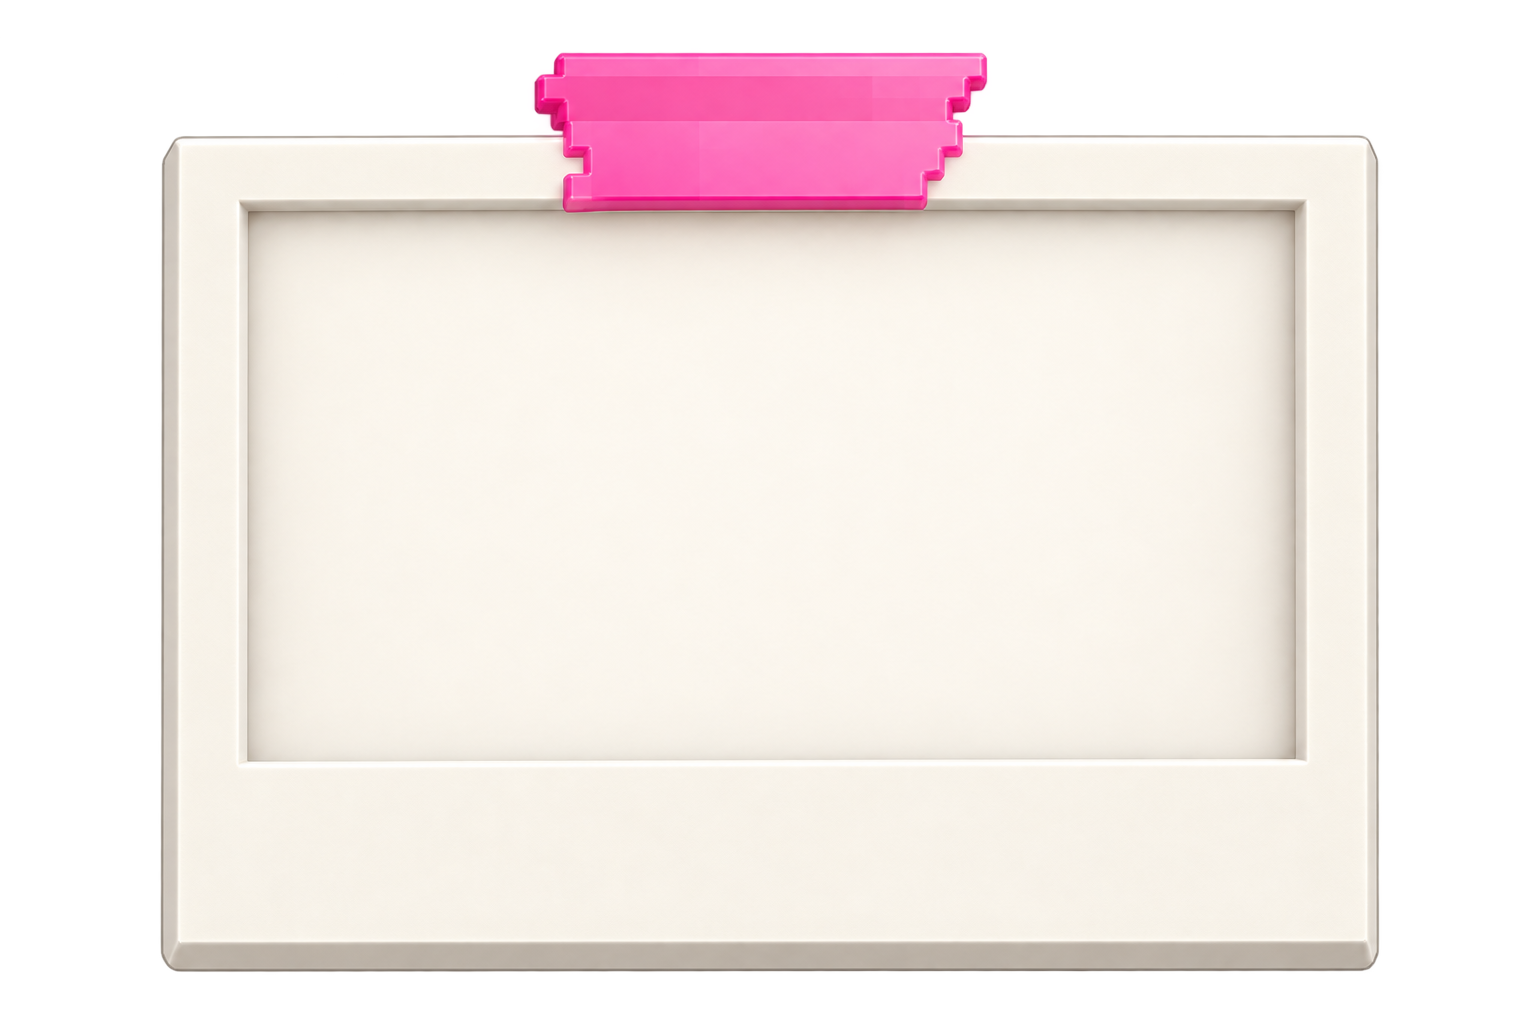
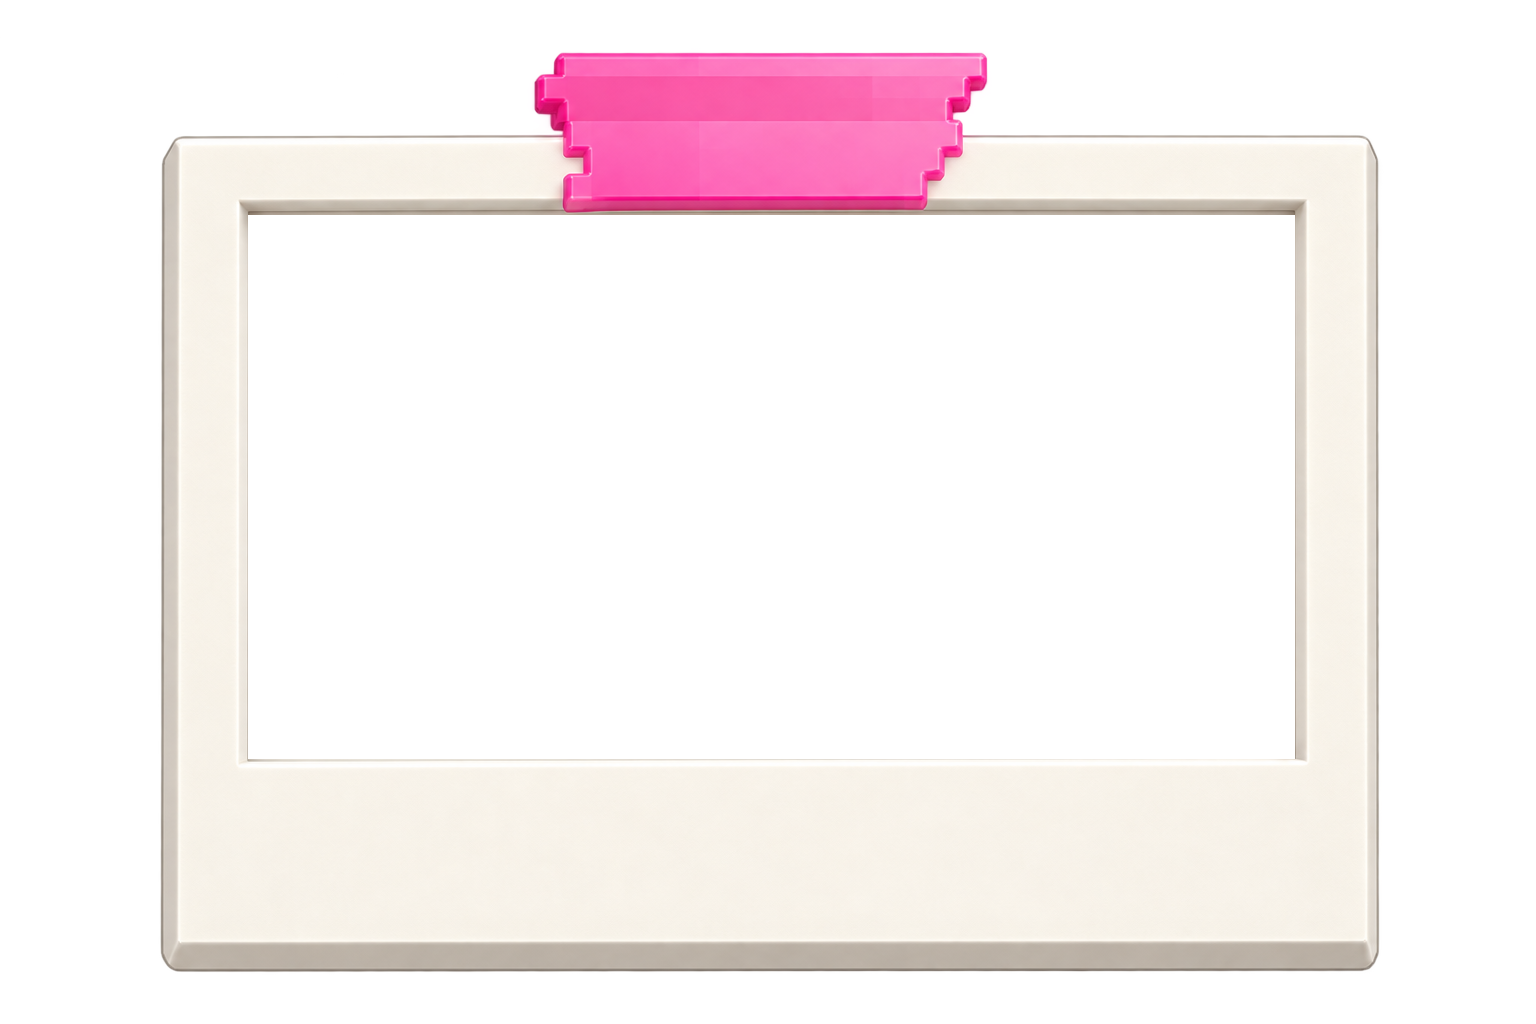
style(landing): transformar seccion explora-modulos a fichas de archivo con polaroids libres

Changed region(s): [[0.1562, 0.1875, 0.8438, 0.75]]

diff --git a/apps/web/src/features/landing/CivicTimelineAndExploreSection.tsx b/apps/web/src/features/landing/CivicTimelineAndExploreSection.tsx
@@ -2,11 +2,10 @@
 
 import React, { useState, useEffect } from 'react';
 import Link from 'next/link';
+import Image from 'next/image';
 import {
   ArrowRight,
   Bell,
-  BarChart3,
-  Gamepad2,
   Check,
   ChevronDown,
   ChevronUp,
@@ -546,110 +545,246 @@ export function CivicTimelineAndExploreSection({
             </p>
           </div>
 
-          {/* Grid de 2 Tarjetas Editoriales */}
-          <div className="grid grid-cols-1 md:grid-cols-2 gap-7 lg:gap-8">
-            {/* Tarjeta A: Dashboard interactivo guiado por preguntas */}
+          {/* Grid de 2 Expedientes Editoriales con Polaroids Voxel Libres (Sin card de fondo) */}
+          <div className="grid grid-cols-1 md:grid-cols-2 gap-10 lg:gap-14 items-start">
+            {/* Expediente A: Dashboard interactivo guiado por preguntas */}
             <Link
               href="/datos"
-              className="group flex flex-col justify-between p-8 sm:p-9 rounded-[4px] bg-[#FDFCFA] border border-[#E5DFD7] shadow-[-8px_14px_28px_-6px_rgba(18,24,38,0.08)] hover:shadow-[-12px_20px_36px_-6px_rgba(18,24,38,0.14)] hover:border-[#D0C7BC] transition-all duration-300 relative overflow-hidden"
+              className="group flex flex-col justify-between focus:outline-none"
             >
-              <div className="absolute top-0 left-0 right-0 h-1.5 bg-gradient-to-r from-blue-600 via-indigo-600 to-violet-600 opacity-90" />
-
               <div>
-                <div className="flex items-center justify-between gap-3 mb-6">
-                  <div className="w-12 h-12 rounded-[3px] bg-blue-50 border border-blue-200/60 text-blue-600 flex items-center justify-center transition-transform group-hover:scale-105">
-                    <BarChart3 className="w-6 h-6" />
+                {/* Escenario Polaroid Voxel Flotante (Directo sobre el papel satinado) */}
+                <div className="relative w-full aspect-[1536/1024] select-none transition-transform duration-500 ease-out group-hover:scale-[1.018] md:group-hover:-rotate-[0.8deg]">
+                  {/* Sombra de contacto suave sobre el papel */}
+                  <div
+                    aria-hidden
+                    className="absolute left-[12%] right-[12%] bottom-[6%] h-[12%] rounded-[50%] bg-[#0F1B2D]/12 blur-md"
+                  />
+
+                  {/* Fotografía interior (card-dashboard.jpeg) encajada en las coordenadas calibradas */}
+                  <div
+                    className="absolute overflow-hidden rounded-[2px]"
+                    style={{
+                      left: '16.08%',
+                      right: '15.69%',
+                      top: '20.90%',
+                      bottom: '25.88%',
+                    }}
+                  >
+                    <Image
+                      src="/card-dashboard.jpeg"
+                      alt="Ilustración pixel art del explorador de datos CCPC del INE"
+                      fill
+                      sizes="(min-width: 1024px) 45vw, 92vw"
+                      className="object-cover transition-transform duration-700 ease-out group-hover:scale-105"
+                    />
+                    {/* Bisel interior para profundidad 3D */}
+                    <div
+                      aria-hidden
+                      className="absolute inset-0 pointer-events-none shadow-[inset_0_2px_6px_rgba(15,27,45,0.22)]"
+                    />
                   </div>
-                  <span className="text-[10px] sm:text-[11px] font-mono font-bold uppercase tracking-[0.2em] text-blue-700 bg-blue-50/80 px-2.5 py-1 rounded-[2px] border border-blue-200/50">
-                    CENSO OFICIAL CCPC
+
+                  {/* Marco Polaroid con cinta adhesiva rosa sobrepuesta */}
+                  <div className="absolute inset-0 pointer-events-none select-none">
+                    <Image
+                      src="/Pink-Taped Polaroid Frame.png"
+                      alt=""
+                      aria-hidden
+                      fill
+                      sizes="(min-width: 1024px) 48vw, 95vw"
+                      className="object-contain drop-shadow-[0_12px_24px_rgba(18,24,38,0.12)]"
+                    />
+                  </div>
+
+                  {/* Barbilla inferior de la Polaroid: Rótulo editorial estilo catálogo */}
+                  <div
+                    className="absolute z-10 flex items-center justify-between px-3 pointer-events-none"
+                    style={{
+                      left: '16.08%',
+                      right: '15.69%',
+                      top: '78%',
+                      height: '11%',
+                    }}
+                  >
+                    <span className="font-mono text-[9px] sm:text-[11px] font-bold tracking-[0.16em] uppercase text-[#6E6277]">
+                      FIG. 01 · CENSO CCPC
+                    </span>
+                    <span className="font-mono text-[9px] sm:text-[10px] text-[#8E8099] tracking-wider">
+                      INE MÉXICO
+                    </span>
+                  </div>
+                </div>
+
+                {/* Cuaderno de Campo: Filete de imprenta tipográfico y registro de archivo */}
+                <div className="mt-8 pt-4 border-t border-black/15 flex items-center justify-between">
+                  <div className="flex items-center gap-2">
+                    <span className="w-1.5 h-1.5 bg-blue-600 rounded-none rotate-45 shrink-0" />
+                    <span className="font-mono text-[11px] font-bold tracking-[0.2em] uppercase text-blue-700">
+                      EXPEDIENTE 01 · DATOS CCPC
+                    </span>
+                  </div>
+                  <span className="font-mono text-[10px] text-black/40 tracking-wider">
+                    REF. INE-CCPC-2024
                   </span>
                 </div>
 
-                <h4 className="font-serif text-2xl sm:text-[28px] font-bold text-[#0F1B2D] group-hover:text-blue-900 transition-colors leading-tight">
+                {/* Titular en Newsreader */}
+                <h4 className="mt-3.5 font-serif text-2xl sm:text-[30px] font-bold text-[#0F1B2D] group-hover:text-blue-900 transition-colors leading-[1.14]">
                   Dashboard interactivo guiado por preguntas
                 </h4>
 
-                <p className="mt-3 text-sm text-[#4A5568] leading-relaxed font-sans">
-                  Gráficas según el tipo de dato, filtros y explicaciones cortas para responder con datos oficiales:
+                <p className="mt-2.5 text-sm sm:text-[15px] text-[#4A5568] leading-relaxed font-sans">
+                  Gráficas según el tipo de dato, filtros por entidad y grupo de edad, y explicaciones cortas para responder con datos oficiales:
                 </p>
 
-                {/* Preguntas literales del Borrador 3 */}
-                <ul className="mt-5 space-y-2.5 pt-4 border-t border-black/5 text-xs sm:text-[13px] font-sans text-[#2C384A]">
-                  <li className="flex items-start gap-2">
-                    <span className="w-1.5 h-1.5 rounded-full bg-blue-600 shrink-0 mt-1.5" />
-                    <span className="font-medium italic">¿Cuánto vota mi estado?</span>
+                {/* Notas de campo numeradas estilo expediente */}
+                <ul className="mt-4 space-y-2.5 font-mono text-xs sm:text-[13px] text-[#2C384A]">
+                  <li className="flex items-baseline gap-2.5">
+                    <span className="font-bold text-blue-600 text-[11px] shrink-0 font-mono">[A.1]</span>
+                    <span className="font-sans font-medium italic text-[#1E293B]">¿Cuánto vota mi estado?</span>
                   </li>
-                  <li className="flex items-start gap-2">
-                    <span className="w-1.5 h-1.5 rounded-full bg-blue-600 shrink-0 mt-1.5" />
-                    <span className="font-medium italic">¿Ha cambiado la participación de mi edad desde 2009?</span>
+                  <li className="flex items-baseline gap-2.5">
+                    <span className="font-bold text-blue-600 text-[11px] shrink-0 font-mono">[A.2]</span>
+                    <span className="font-sans font-medium italic text-[#1E293B]">¿Ha cambiado la participación de mi edad desde 2009?</span>
                   </li>
-                  <li className="flex items-start gap-2">
-                    <span className="w-1.5 h-1.5 rounded-full bg-blue-600 shrink-0 mt-1.5" />
-                    <span className="font-medium italic">¿Votan más hombres o mujeres?</span>
+                  <li className="flex items-baseline gap-2.5">
+                    <span className="font-bold text-blue-600 text-[11px] shrink-0 font-mono">[A.3]</span>
+                    <span className="font-sans font-medium italic text-[#1E293B]">¿Votan más hombres o mujeres?</span>
                   </li>
                 </ul>
               </div>
 
-              <div className="mt-8 pt-5 border-t border-black/5 flex items-center justify-between">
-                <span className="text-xs font-mono font-bold tracking-[0.18em] uppercase text-blue-700 group-hover:text-blue-900 transition-colors">
+              {/* Enlace de acción editorial de imprenta */}
+              <div className="mt-7 pt-4 border-t border-black/10 flex items-center justify-between">
+                <span className="text-xs font-mono font-bold tracking-[0.18em] uppercase text-blue-700 group-hover:text-blue-950 transition-colors">
                   ABRIR DASHBOARD CCPC
                 </span>
-                <div className="w-8 h-8 rounded-full bg-blue-50 text-blue-700 flex items-center justify-center transition-transform group-hover:translate-x-1.5 group-hover:bg-blue-600 group-hover:text-white">
-                  <ArrowRight className="w-4 h-4" />
+                <div className="flex items-center gap-1.5 text-blue-700 group-hover:text-blue-950 transition-colors">
+                  <span className="text-xs font-mono font-semibold tracking-wider">CONSULTAR</span>
+                  <ArrowRight className="w-4 h-4 transition-transform group-hover:translate-x-1.5" />
                 </div>
               </div>
             </Link>
 
-            {/* Tarjeta B: Modo Juego de práctica en casilla */}
+            {/* Expediente B: Modo Juego de práctica en casilla */}
             <Link
               href="/juego"
-              className="group flex flex-col justify-between p-8 sm:p-9 rounded-[4px] bg-[#0A0F1D] border border-[#1E293B] shadow-[-8px_14px_28px_-6px_rgba(10,15,29,0.35)] hover:shadow-[-12px_20px_36px_-6px_rgba(10,15,29,0.5)] hover:border-[#334155] transition-all duration-300 relative overflow-hidden"
+              className="group flex flex-col justify-between focus:outline-none"
             >
-              <div className="absolute top-0 left-0 right-0 h-1.5 bg-gradient-to-r from-dalia-600 via-purple-500 to-indigo-500 opacity-90" />
-
               <div>
-                <div className="flex items-center justify-between gap-3 mb-6">
-                  <div className="w-12 h-12 rounded-[3px] bg-white/10 border border-white/15 text-white flex items-center justify-center transition-transform group-hover:scale-105">
-                    <Gamepad2 className="w-6 h-6" />
+                {/* Escenario Polaroid Voxel Flotante (Directo sobre el papel satinado) */}
+                <div className="relative w-full aspect-[1536/1024] select-none transition-transform duration-500 ease-out group-hover:scale-[1.018] md:group-hover:rotate-[0.8deg]">
+                  {/* Sombra de contacto suave sobre el papel */}
+                  <div
+                    aria-hidden
+                    className="absolute left-[12%] right-[12%] bottom-[6%] h-[12%] rounded-[50%] bg-[#0F1B2D]/12 blur-md"
+                  />
+
+                  {/* Fotografía interior (card-juego.jpeg) encajada en las coordenadas calibradas */}
+                  <div
+                    className="absolute overflow-hidden rounded-[2px]"
+                    style={{
+                      left: '16.08%',
+                      right: '15.69%',
+                      top: '20.90%',
+                      bottom: '25.88%',
+                    }}
+                  >
+                    <Image
+                      src="/card-juego.jpeg"
+                      alt="Ilustración pixel art del simulador de práctica en casilla del INE"
+                      fill
+                      sizes="(min-width: 1024px) 45vw, 92vw"
+                      className="object-cover transition-transform duration-700 ease-out group-hover:scale-105"
+                    />
+                    {/* Bisel interior para profundidad 3D */}
+                    <div
+                      aria-hidden
+                      className="absolute inset-0 pointer-events-none shadow-[inset_0_2px_6px_rgba(15,27,45,0.22)]"
+                    />
                   </div>
-                  <span className="text-[10px] sm:text-[11px] font-mono font-bold uppercase tracking-[0.2em] text-[#B8A8FF] bg-[#221752] px-2.5 py-1 rounded-[2px] border border-[#48339E]">
-                    PIXEL ART RETRO
+
+                  {/* Marco Polaroid con cinta adhesiva rosa sobrepuesta */}
+                  <div className="absolute inset-0 pointer-events-none select-none">
+                    <Image
+                      src="/Pink-Taped Polaroid Frame.png"
+                      alt=""
+                      aria-hidden
+                      fill
+                      sizes="(min-width: 1024px) 48vw, 95vw"
+                      className="object-contain drop-shadow-[0_12px_24px_rgba(18,24,38,0.12)]"
+                    />
+                  </div>
+
+                  {/* Barbilla inferior de la Polaroid: Rótulo editorial estilo catálogo */}
+                  <div
+                    className="absolute z-10 flex items-center justify-between px-3 pointer-events-none"
+                    style={{
+                      left: '16.08%',
+                      right: '15.69%',
+                      top: '78%',
+                      height: '11%',
+                    }}
+                  >
+                    <span className="font-mono text-[9px] sm:text-[11px] font-bold tracking-[0.16em] uppercase text-[#6E6277]">
+                      FIG. 02 · SIMULADOR CASILLA
+                    </span>
+                    <span className="font-mono text-[9px] sm:text-[10px] text-[#8E8099] tracking-wider">
+                      RETRO PIXEL ART
+                    </span>
+                  </div>
+                </div>
+
+                {/* Cuaderno de Campo: Filete de imprenta tipográfico y registro de archivo */}
+                <div className="mt-8 pt-4 border-t border-black/15 flex items-center justify-between">
+                  <div className="flex items-center gap-2">
+                    <span className="w-1.5 h-1.5 bg-[#5E2CE6] rounded-none rotate-45 shrink-0" />
+                    <span className="font-mono text-[11px] font-bold tracking-[0.2em] uppercase text-[#5E2CE6]">
+                      EXPEDIENTE 02 · MODO PRÁCTICA
+                    </span>
+                  </div>
+                  <span className="font-mono text-[10px] text-black/40 tracking-wider">
+                    SIMULADOR NEUTRAL
                   </span>
                 </div>
 
-                <h4 className="font-serif text-2xl sm:text-[28px] font-bold text-white group-hover:text-purple-200 transition-colors leading-tight">
+                {/* Titular en Newsreader */}
+                <h4 className="mt-3.5 font-serif text-2xl sm:text-[30px] font-bold text-[#0F1B2D] group-hover:text-[#5E2CE6] transition-colors leading-[1.14]">
                   Práctica de procedimiento en casilla
                 </h4>
 
-                <p className="mt-3 text-sm text-white/70 leading-relaxed font-sans">
+                <p className="mt-2.5 text-sm sm:text-[15px] text-[#4A5568] leading-relaxed font-sans">
                   Usa datos reales de la CCPC y permite practicar el procedimiento en una casilla (cómo marcar, doblar y
                   depositar la boleta) con una boleta de práctica de opciones neutrales, sin partidos, candidaturas ni
                   colores partidistas.
                 </p>
 
-                {/* Características clave en viñetas */}
-                <ul className="mt-5 space-y-2.5 pt-4 border-t border-white/10 text-xs sm:text-[13px] font-sans text-white/80">
-                  <li className="flex items-center gap-2">
-                    <span className="w-1.5 h-1.5 rounded-full bg-dalia-500 shrink-0" />
-                    <span>Desmiente mitos con datos de la CCPC</span>
+                {/* Notas de campo numeradas estilo expediente */}
+                <ul className="mt-4 space-y-2.5 font-mono text-xs sm:text-[13px] text-[#2C384A]">
+                  <li className="flex items-baseline gap-2.5">
+                    <span className="font-bold text-[#5E2CE6] text-[11px] shrink-0 font-mono">[B.1]</span>
+                    <span className="font-sans font-medium text-[#1E293B]">Desmiente mitos con datos oficiales de la CCPC</span>
                   </li>
-                  <li className="flex items-center gap-2">
-                    <span className="w-1.5 h-1.5 rounded-full bg-dalia-500 shrink-0" />
-                    <span>Práctica táctil de doblado y depósito en urna</span>
+                  <li className="flex items-baseline gap-2.5">
+                    <span className="font-bold text-[#5E2CE6] text-[11px] shrink-0 font-mono">[B.2]</span>
+                    <span className="font-sans font-medium text-[#1E293B]">Práctica táctil de marcado, doblado y depósito en urna</span>
                   </li>
-                  <li className="flex items-center gap-2">
-                    <span className="w-1.5 h-1.5 rounded-full bg-dalia-500 shrink-0" />
-                    <span>Simulación neutral sin partidos ni sesgos</span>
+                  <li className="flex items-baseline gap-2.5">
+                    <span className="font-bold text-[#5E2CE6] text-[11px] shrink-0 font-mono">[B.3]</span>
+                    <span className="font-sans font-medium text-[#1E293B]">Simulación cívica neutral sin partidos ni sesgos</span>
                   </li>
                 </ul>
               </div>
 
-              <div className="mt-8 pt-5 border-t border-white/10 flex items-center justify-between">
-                <span className="text-xs font-mono font-bold tracking-[0.18em] uppercase text-[#B8A8FF] group-hover:text-white transition-colors">
+              {/* Enlace de acción editorial de imprenta */}
+              <div className="mt-7 pt-4 border-t border-black/10 flex items-center justify-between">
+                <span className="text-xs font-mono font-bold tracking-[0.18em] uppercase text-[#5E2CE6] group-hover:text-dalia-700 transition-colors">
                   ENTRAR A PRACTICAR
                 </span>
-                <div className="w-8 h-8 rounded-full bg-white/10 text-[#B8A8FF] flex items-center justify-center transition-transform group-hover:translate-x-1.5 group-hover:bg-[#5E2CE6] group-hover:text-white">
-                  <ArrowRight className="w-4 h-4" />
+                <div className="flex items-center gap-1.5 text-[#5E2CE6] group-hover:text-dalia-700 transition-colors">
+                  <span className="text-xs font-mono font-semibold tracking-wider">JUGAR</span>
+                  <ArrowRight className="w-4 h-4 transition-transform group-hover:translate-x-1.5" />
                 </div>
               </div>
             </Link>
